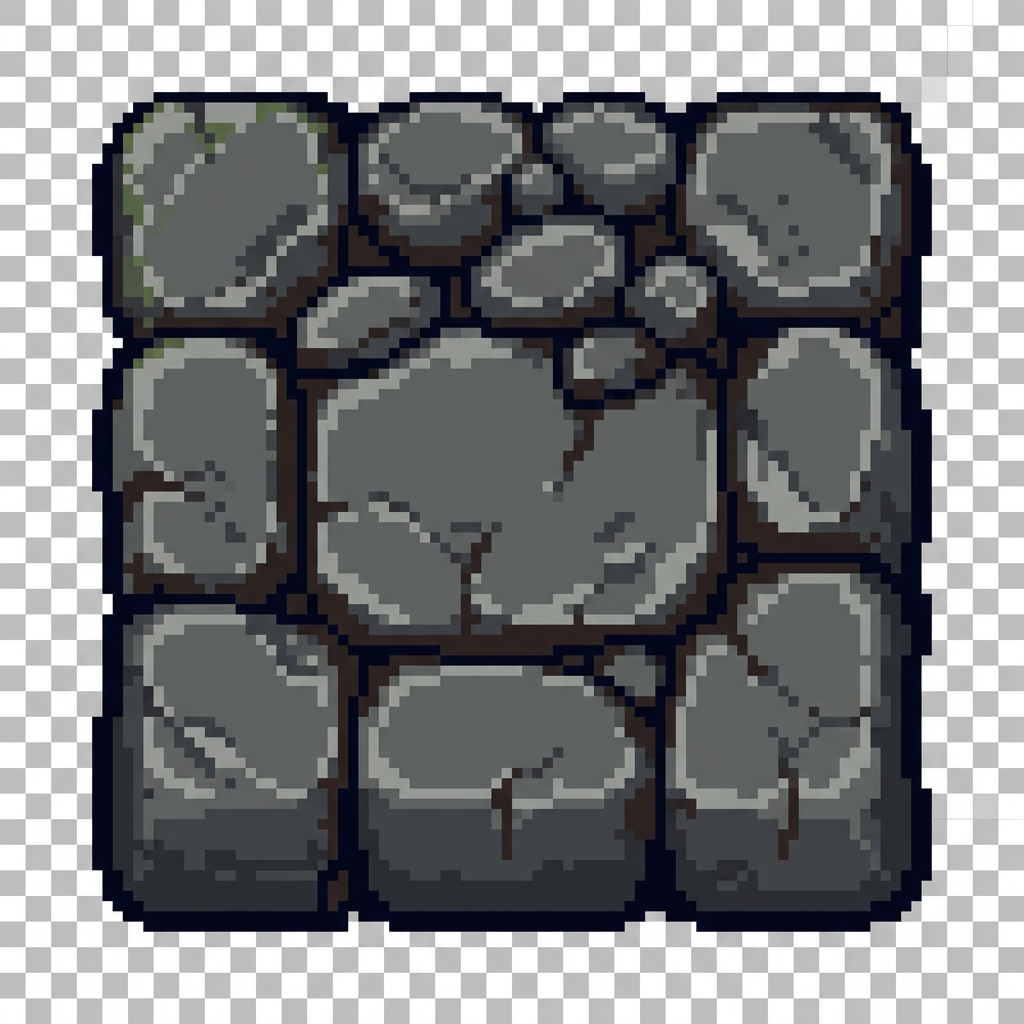
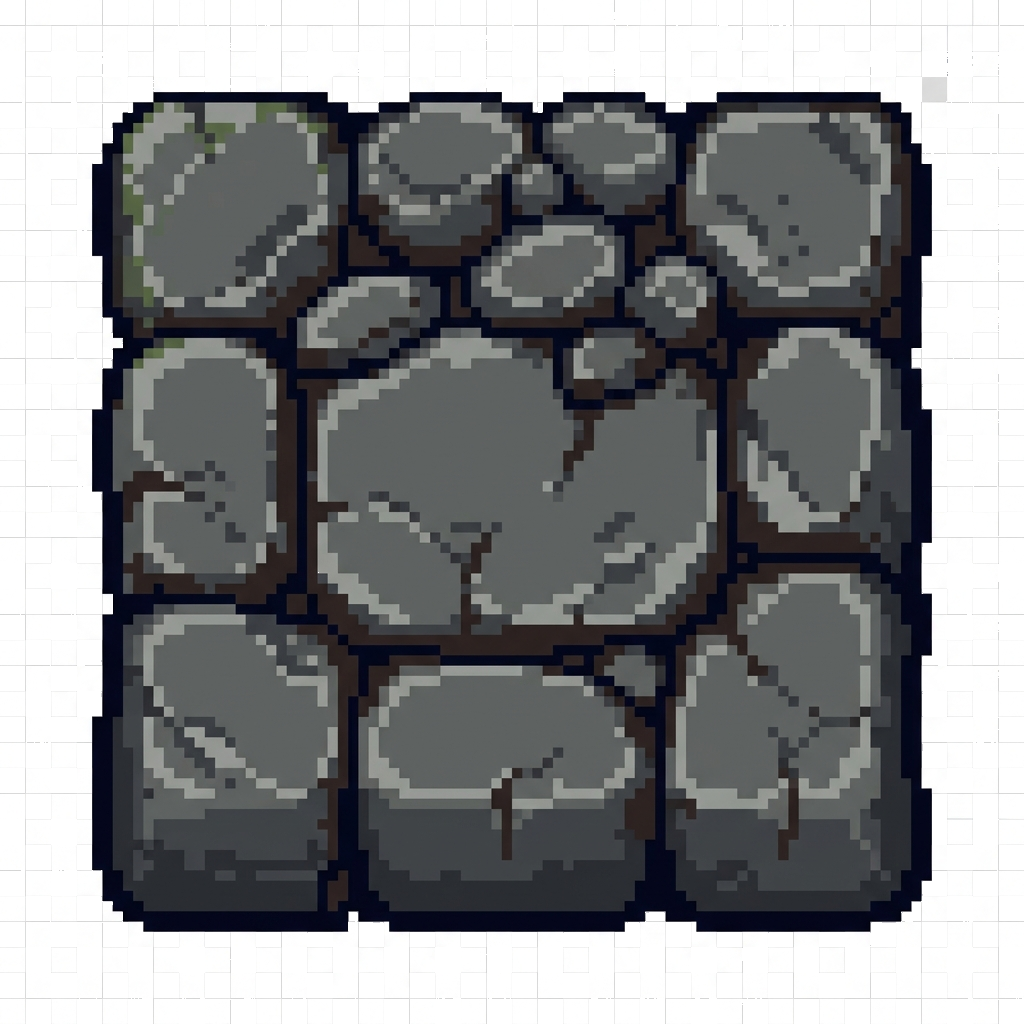
Fix: Remove backgrounds from stone and crate assets

Changed region(s): [[0.0, 0.0, 1.0, 1.0]]

diff --git a/remove_bg.py b/remove_bg.py
@@ -1,0 +1,26 @@
+from PIL import Image
+
+def remove_background(image_path, output_path, tolerance=10):
+    img = Image.open(image_path).convert("RGBA")
+    data = img.getdata()
+    
+    # Get the background color from the top-left pixel (0, 0)
+    bg_color = data[0]
+    
+    new_data = []
+    for item in data:
+        # Check if the pixel is within the tolerance range of the background color
+        if (abs(item[0] - bg_color[0]) <= tolerance and
+            abs(item[1] - bg_color[1]) <= tolerance and
+            abs(item[2] - bg_color[2]) <= tolerance):
+            new_data.append((255, 255, 255, 0)) # Make transparent
+        else:
+            new_data.append(item)
+            
+    img.putdata(new_data)
+    img.save(output_path, "PNG")
+    print(f"Removed background from {image_path} and saved to {output_path}")
+
+remove_background("assets/stone_wall.png", "assets/stone_wall.png", tolerance=20)
+# Let's also do wood_crate just in case
+remove_background("assets/wood_crate.png", "assets/wood_crate.png", tolerance=20)
